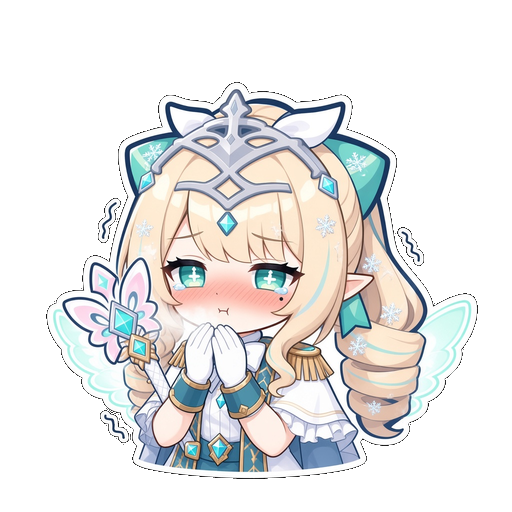
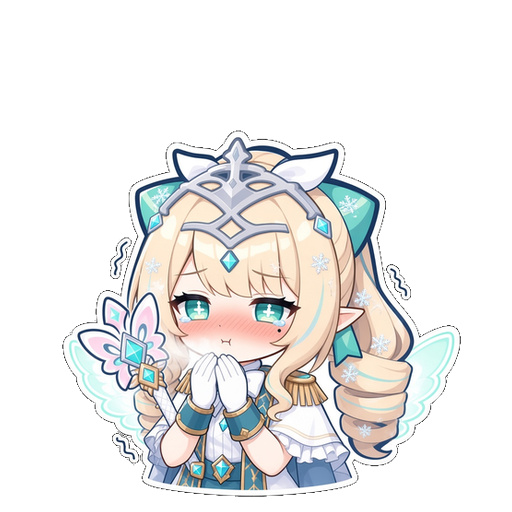
Hooks for food refuse/on_eat, realign cold/frozen; chat status/extra/face
Plugins can refuse food and own eat reactions; happy_lines tunable.
Cold/frozen sprites bottom-aligned. Live snapshot adds cabin status,
plugin extras and face name; chat memos unknown events via memo=.

diff --git a/main.py b/main.py
@@ -50,6 +50,7 @@ FACES = {"pout": "shy", "smug": "content", "hungry": "idle", "queasy": "dizzy",
          "cold": "pout",              # cold 只给插件用(expr), 没图时借委屈那张
          "frozen": "wet"}            # frozen 暴雪浇水冻住; 没图时借湿漉漉(再借 angry)
 HUNGRY_FACE = 25                # 饱腹低于这个, 站着发呆时换成「饿了」那张
+FEED_REACTIONS = ("fav", "like", "ok", "dislike", "weird")     # 插件接管吃的反应时, feed 事件里能记成的档
 
 # ---------------- 可调参数 ----------------
 SIZES = {"small": 140, "medium": 200, "large": 300}
@@ -175,6 +176,9 @@ TUNABLE = {
     "bubble_pool": ("lines", None, None),       # 随机冒泡的台词池
     "sleep_after": ("float", 15.0, 3600.0),     # 多久没人理就睡着(秒); ctx: edge
     "food_refuse_p": ("float", 0.0, 1.0),       # 不爱吃 / 奇怪的东西直接推开的概率; ctx: key tier trait
+    "food_refuse": ("bool", None, None),        # 最后问一句: 这次推不推开(喜欢的也管; 整蛊食物不问); ctx: key tier trait
+    "food_refuse_lines": ("lines", None, None), # 推开时说的那句; ctx: key tier trait
+    "happy_lines": ("lines", None, None),       # 空闲小动作「开心」时说的那句(原版有一句「今天天气真好~」)
     "come_ok": ("bool", None, None),            # 叫她「过来~」肯不肯来
     "come_refuse_lines": ("lines", None, None), # 不肯过来时说的那句
     "greet_lines": ("lines", None, None),       # 你离开一阵回来, 她迎接你说的那句; ctx: long(离开很久), level
@@ -1234,6 +1238,7 @@ class PetWindow(QWidget):
             refuse = bad and random.random() < self._tune("food_refuse_p",
                                                           FOOD_REFUSE_WEIRD if tier == "weird" else FOOD_REFUSE_P,
                                                           key=key, tier=tier, trait=f["trait"])
+            refuse = self._tune("food_refuse", refuse, key=key, tier=tier, trait=f["trait"])
         if f.get("curious") and not self.stats.food_known(key) and not refuse:
             self.set_state("surprised", 1.8)    # 食物包的外界食物: 第一次见先好奇
             self.burst("quest", 1, at=self.head_point() + QPointF(self.char_w * 0.25, -8))
@@ -1257,8 +1262,11 @@ class PetWindow(QWidget):
         m = self.mouth_point()
         hp = self.head_point()
         first = self.stats.taste(key, eaten=not refuse)
-        self.emit_event("feed", key=key, name=f["name"], tier=tier, trait=trait,
-                        reaction="refuse" if refuse else tier, first=bool(first))
+        special = None                                      # 插件接管吃下去的反应(如暴雪天吃辣的): 返回事件里记成什么
+        if not refuse and not f.get("effect") and self._ix.plugins:
+            special = self._ix.eat(dict(f), bool(first))
+        reaction = "refuse" if refuse else (special if special in FEED_REACTIONS else tier)
+        self.emit_event("feed", key=key, name=f["name"], tier=tier, trait=trait, reaction=reaction, first=bool(first))
         if refuse:                                          # 推开不吃
             if tier == "dislike":
                 self.set_state("angry", 2.0, expr="yuck")
@@ -1271,7 +1279,8 @@ class PetWindow(QWidget):
             if tier == "weird":
                 self.burst("quest", 1, at=hp + QPointF(self.char_w * 0.25, -8))
             self.sfx.play("hmph")
-            self.say(self.pick_line(f["refuse"] or C.FOOD_REFUSE_TEXTS), force=True, duration=3.2, tone="alert")
+            pool = self._tune("food_refuse_lines", f["refuse"] or C.FOOD_REFUSE_TEXTS, key=key, tier=tier, trait=trait)
+            self.say(self.pick_line(pool), force=True, duration=3.2, tone="alert")
             self._note_dislike(now)
             return
         self.stats.feed(f["fill"])
@@ -1279,6 +1288,8 @@ class PetWindow(QWidget):
         self.sfx.play("munch")
         self.burst("crumb", 7, at=m, bias=(0, 0))
         self.kick(-1.6)
+        if special:
+            return
         if f.get("effect"):                                 # 食物包: 吃后效果(白名单)
             self._prank_last[key] = now
             if f.get("affection"):
@@ -2466,7 +2477,7 @@ class PetWindow(QWidget):
                     elif act == "happy":
                         self.set_state("happy", random.uniform(*HAPPY_DURATION))
                         if random.random() < 0.35:
-                            self.say(random.choice(C.HAPPY_TEXTS))
+                            self.say(random.choice(self._tune("happy_lines", C.HAPPY_TEXTS)))
                     elif act == "look":
                         first = random.choice(("look", "look_left"))
                         other = "look_left" if first == "look" else "look"
@@ -3791,6 +3802,8 @@ class PetWindow(QWidget):
                 grok = str(self.link.status_text() or "")
         except Exception:
             pass
+        key = None if self.edge else self.stand_key()
+        face = next((n for k, n, _ in C.CODEX if k == key), "") if key in FACES else ""
         return {
             "v": 1,
             "ok": True,
@@ -3824,6 +3837,9 @@ class PetWindow(QWidget):
             "spin_refuse": now < self._spin_refuse_until,
             "link_busy": bool(self.link_busy),
             "grok": grok,
+            "status": self.mood_text(),                  # 小屋头部那句话(她此刻的样子)
+            "extra": self.plugin_status(),               # 插件的状态行(天气、小心愿……)
+            "face": face,                                # 只换脸的表情的中文名(冻住 / 好冷 / 湿漉漉……), 没有就空
         }
 
     # ----- DLC 事件推送 / say (live 协议 v2) -----

diff --git a/interaction_hooks.py b/interaction_hooks.py
@@ -13,6 +13,9 @@
   on_pet() -> bool              摸头时先问插件; True = 插件接管(原版摸头效果不执行)
   on_click(double) -> bool      单击/双击时先问插件(double=True 是双击); True = 插件接管(原版的戳/跳不执行)
   on_spin_queasy(now) -> bool   转圈转到顶、即将生气时调用; 返回 True 表示插件接管(原版的生气逻辑不执行)
+  on_eat(food, first) -> str | None  她吃下去(没推开、不是整蛊食物)时先问插件; 返回 fav / like / ok / dislike / weird
+                                = 插件接管这次的反应(表情、台词、好感都自己做), feed 事件按返回的档记(心情也按它算);
+                                None = 原版照常。饱腹、图鉴本体照常记
   step(t)                       每帧调用
   expr(key, state) -> str | None 每帧画立绘前问: 要不要换一张脸(main.FACES 里的名字, 如超级生气时换 "wet")。
                                 key 是本体选好的图, state 是状态; None = 不换。多个插件按 priority 依次传下去。
@@ -117,6 +120,20 @@ class Hub:
             except Exception as e:
                 self._err("expr", e, pl)
         return key
+
+    def eat(self, food, first):
+        """吃下去时问插件要不要接管反应: priority 大的先, 第一个返回非空的算数; 都不接管返回 None"""
+        for pl in sorted(self.plugins, key=lambda x: -getattr(x, "priority", 0)):
+            f = getattr(pl, "on_eat", None)
+            if f is None:
+                continue
+            try:
+                r = f(dict(food), first)
+                if r:
+                    return str(r)
+            except Exception as e:
+                self._err("eat", e, pl)
+        return None
 
     def state_texts(self):
         """插件管的短暂状态的一句话(超级生气、转吐……); 都没有就是空列表"""

diff --git a/dlc/chat/persona.py b/dlc/chat/persona.py
@@ -32,7 +32,8 @@ PERSONA = """
 记住对方告诉你的名字、称呼、习惯、正在做的事、答应过的事。没说的不要编。记不清就问一句。长期记忆和场景备忘是你「自己记得的」，不是文件。
 
 ## 状态感知（运行时注入）
-消息里可能附带当前状态（表情 state、饱腹 hunger、好感 affection、等级名 level、心情 mood、Grok 联动 grok，以及是否 focusing / sleeping / dragging、hour）。只根据注入的内容反应，不要说你「看到了状态」。
+消息里可能附带当前状态（表情 state、饱腹 hunger、好感 affection、等级名 level、心情 mood、Grok 联动 grok、此刻的样子 status、附加状态 extra、脸 face，以及是否 focusing / sleeping / dragging、hour）。只根据注入的内容反应，不要说你「看到了状态」。
+- status 是你此刻的样子（比如「冻成了一座小冰雕……」「蹲在火炉边取暖」「被稳稳抱着走」）；face 是你现在的表情（比如 冻住 / 好冷 / 湿漉漉 / 赌气）；extra 里有天气（☀ 晴 / ☁ 阴 / ❄ 下雪 / 🌨 暴雪）和正在等的小心愿。按这些自然地说话——暴雪天会冷、下雪会开心、冻住了就说话打颤——不要念原文。
 - hunger 低：小声提想吃的，同一时段最多一次；被无视就哼哼两声，不纠缠。
 - mood（超开心 / 不错 / 平平 / 有点低落 / 很糟）：按心情调语气——超开心更活泼爱笑，低落时话少、软一点，很糟时可以闷闷的、嘴硬。不要报心情的名字或数值。
 - state 是 sleep / sleeping：被叫醒的第一句必须迷糊（「唔……诶?」）。起床气看方式——被拖着走最凶，摸醒最软。

diff --git a/live_link.py b/live_link.py
@@ -17,7 +17,7 @@
 
 桌宠 -> 客户端:
   ping: {"v":1,"ok":true,"pong":true,"proto":2,"caps":["get","subscribe","say"]}
-  get:  {"v":1,"ok":true, ...快照字段}            (v1 字段都在; 后来只加不改, 如 mood / mood_band)
+  get:  {"v":1,"ok":true, ...快照字段}            (v1 字段都在; 后来只加不改, 如 mood / mood_band / status / extra / face)
   subscribe: {"v":2,"ok":true,"subscribed":true}
   say:  {"v":2,"ok":true}  或  {"v":2,"ok":false,"err":"rate"|"busy"|"muted"|"hidden"|"empty"}
   未知: {"v":1,"ok":false,"err":"unknown"}
@@ -54,6 +54,7 @@ say 规则:
      / rage_poke(pokes, double, undo, blew) / memory(kind: recap|life, text) / approach(why: hungry|company)
      / weak_hop(hunger)
   插件发的(tender): carried(sec) / pet_lean / combed(messy, sulk) / tucked / woke_tucked / waved_back / goodnight / praised(n)
+  插件推的事件可以带 memo(一句话, 如「你给她围上了围巾」): 聊天 DLC 认不得的事件就用它写场景备忘。
   同一套事件也会通知互动插件(on_event); 完整说明和字段见 docs/接口规范.md。
 
 同时最多 4 个连接; 单行最多 4KB; 写缓冲超过 64KB 则断开(推送也一样, 慢客户端会被断开)。

diff --git a/dlc/chat/watch.py b/dlc/chat/watch.py
@@ -100,7 +100,11 @@ FOOD_FX_LINE = {
 
 
 def event_line(ev):
-    """把一条推送事件翻译成场景备忘行; 不需要记的返回 None。"""
+    """把一条推送事件翻译成场景备忘行; 不需要记的返回 None。
+    事件自己带了 memo(插件写好的一句话, 比如天气 / 火炉这类聊天这边不认识的事件)就直接用。"""
+    memo = ev.get("memo")
+    if isinstance(memo, str) and memo.strip():
+        return memo.strip()[:80]
     name = ev.get("ev")
     if name == "click":
         return "你点了她一下（互动）"
@@ -468,6 +472,9 @@ class PetWatch(QObject):
             "level": s.get("level"),
             "mood": MOOD_NAME.get(s.get("mood_band"), ""),
             "grok": s.get("grok") or "",
+            "status": s.get("status") or "",
+            "extra": "；".join(str(x) for x in (s.get("extra") or []) if x),
+            "face": s.get("face") or "",
             "focusing": bool(s.get("focusing")),
             "sleeping": bool(s.get("sleeping")),
             "dragging": bool(s.get("dragging")),

diff --git a/docs/接口规范.md b/docs/接口规范.md
@@ -37,6 +37,7 @@
 | `on_wheel(event) -> bool` | 滚轮转圈前 | `True` = 吃掉(不转、不攒晕度) |
 | `on_context_menu(event) -> bool` | 右键菜单弹出前 | `True` = 不弹 |
 | `on_spin_queasy(now) -> bool` | 转太多、即将"晕完生气"时 | `True` = 插件接管收尾(记得调 `take_over_spin`) |
+| `on_eat(food, first) -> str \| None` | 她把东西吃下去时(没推开、不是整蛊食物)，原版反应之前 | 返回 `fav like ok dislike weird` = 插件接管这次的反应(表情、台词、好感自己做)，`feed` 事件按返回的档记、心情也按它算；`None` = 原版照常。饱腹、图鉴本体照常记 |
 | `on_say(text, src)` | 她冒台词气泡时 | 不管 |
 | `state_text() -> str \| None` | 画小屋头部时 | 插件管的短暂状态正在进行时返回一句话(如「头发还在滴水,火气倒是很旺」)，小屋头部优先显示它；平时返回 `None`。口吻和头部原来那几句一样：旁白、带点画面，不要直接报状态 |
 | `status_text() -> str \| None` | 每秒刷新托盘提示时、画右键卡片时 | 一行状态：托盘提示和右键卡片的状态行里列出 |
@@ -121,6 +122,9 @@
 | `bubble_pool` | 原版台词池(含好感、饿了的那些) | 字符串列表，不能为空 | — | 随机冒泡从哪挑 |
 | `sleep_after` | 站着 180 秒 / 探头 60 秒 | 秒，15–3600 | `edge` | 多久没人理就睡着 |
 | `food_refuse_p` | 不爱吃 0.45 / 奇怪的 0.6 | 0–1 | `key` `tier` `trait` | 不爱吃 / 奇怪的东西直接推开的概率(整蛊食物不走这里) |
+| `food_refuse` | 上面按概率算出来的结果 | 布尔 | `key` `tier` `trait` | 最后问一句这次推不推开；喜欢的也能让她推开(比如暴雪天的冰淇淋)。整蛊食物不问 |
+| `food_refuse_lines` | 这道菜自己的推开台词，没有就用原版那几句 | 字符串列表，不能为空 | `key` `tier` `trait` | 推开时说的那句 |
+| `happy_lines` | 原版「开心」那几句(含「今天天气真好~」) | 字符串列表，不能为空 | — | 空闲小动作「开心」时说的那句 |
 | `come_ok` | `True` | 布尔 | — | 叫她「过来~」肯不肯来；`False` 时她扭头说一句，推 `come_refused` |
 | `come_refuse_lines` | 原版不肯来的台词 | 字符串列表，不能为空 | — | 不肯过来时说的那句 |
 | `greet_lines` | 原版迎接台词(按离开多久、好感挑好的那组) | 字符串列表，不能为空 | `long` `level` | 你离开电脑一阵又回来，她迎接你说的那句 |
@@ -221,6 +225,8 @@
 ## 5. 事件
 
 插件经 `on_event(name, data)` 收到全部事件；外部 DLC 要先 `subscribe`(见 `live_link.py`)。
+
+插件 `emit_event(name, ..., memo="一句话")` 时可以带 `memo`：聊天 DLC 认不得的事件(比如私有 DLC 的)就用这句话写进场景备忘，所以写成「你给她围上了围巾（互动）」这种旁白。
 
 | 事件 | 字段 |
 |---|---|
@@ -327,6 +333,21 @@
   生气 / 吃东西 / 幸福 / 害羞(按表情) → 散步 → 饿了 → 看蝴蝶 → 按好感那句。台词表在 `content.py` 的 `STATUS_*`。
 - 新钩子 `state_text()`；`water` 和 `vomit` 实现了它。
 - 新可调参数 `sneak_done_lines` `sneak_caught_lines`；新事件 `sneak_done`。
+
+### 2026-11-02 聊天知道得更多
+
+- 快照(`get`)加了 `status`(小屋头部那句话)、`extra`(插件状态行，比如天气)、`face`(只换脸的表情的中文名)。
+- 事件可以带 `memo`：聊天 DLC 认不得的事件就用这句话写进场景备忘。私有 DLC(天气、火炉、性格)都带了。
+- 聊天 DLC 把这三样放进当前状态，人设里加了怎么用(冷就说冷、冻住了说话打颤，不念原文)。
+
+### 2026-11-01 推开食物的调节口、接管吃的反应
+
+- 新可调参数 `food_refuse` `food_refuse_lines`：插件可以让她这次推开某样吃的(连喜欢的也算)，并换推开时的台词。
+- 新钩子 `on_eat(food, first)`：插件可以整个接管吃下去的反应(比如暴雪天吃辣的反而高兴)，并决定这次按哪一档记。
+- 新可调参数 `happy_lines`：「开心」小动作的台词(天气插件用它在阴天、下雪、暴雪时去掉「今天天气真好~」)。
+  推开照原版算：心情 -3，短时间连着推开第 2 次扣好感警告、第 3 次闹别扭。没有插件时和以前一样。
+- `assets/cold.png` `frozen.png` 重新对齐(cold 缩到 0.92 倍、底边落在 y≈497)：原图头顶到了 y=82，会把所有立绘共用的裁剪框撑高，
+  每个表情都跟着缩小约 12%。`frozen.png` 同理(头顶到了 y=40，缩到 0.926 倍，框外零星的小冰晶裁掉)。`held.png` 顶上几个几乎透明的像素也清掉了。
 
 ### 2026-11-01 雪花、蝴蝶调节口、「好冷」的脸
 
